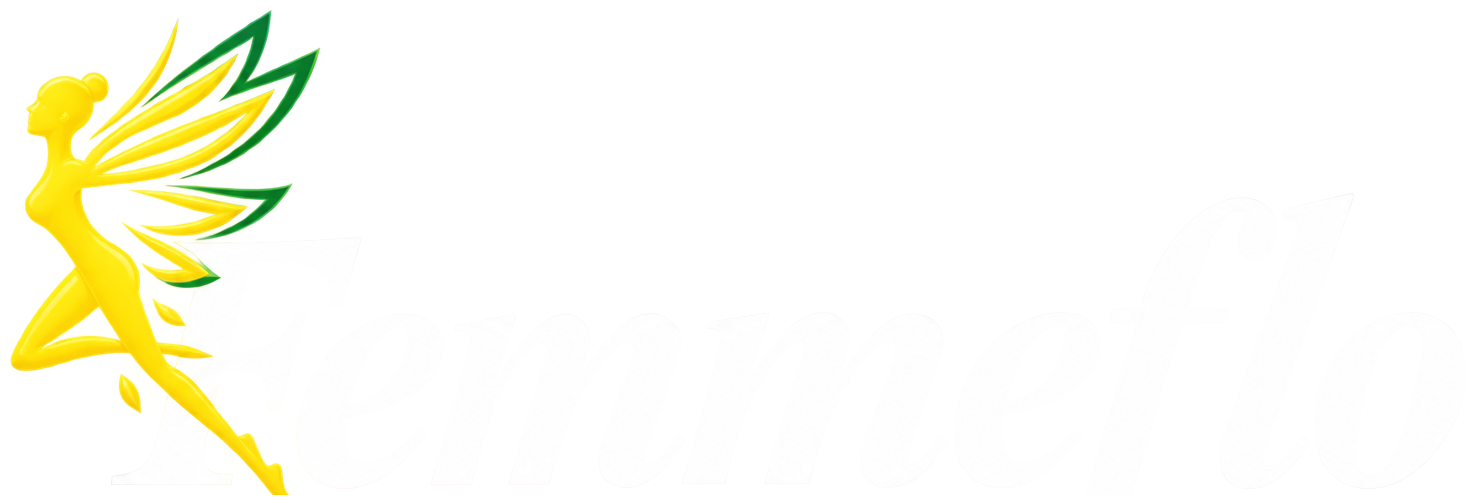
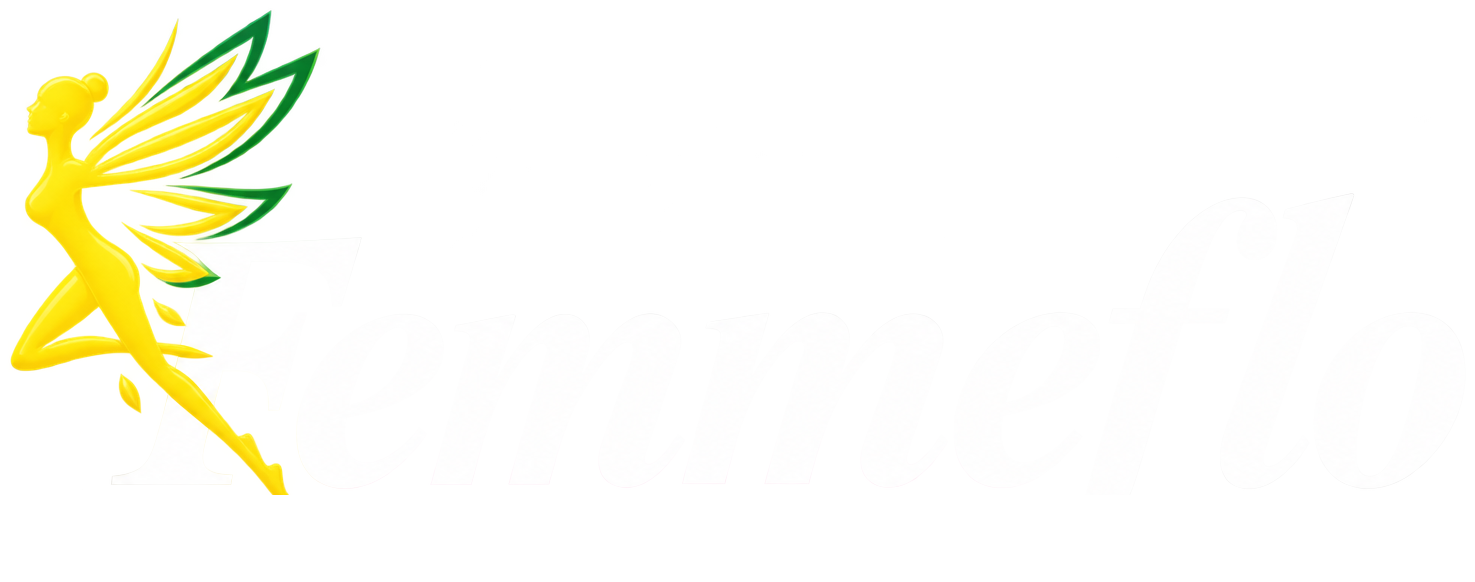
feat: add responsive navbar component and project assets

Changed region(s): [[0.0, 0.0298, 0.2183, 0.9821]]

diff --git a/src/components/navbar.tsx b/src/components/navbar.tsx
@@ -54,7 +54,7 @@ export function Navbar() {
               alt="Femmeflo Logo"
               width={600}
               height={200}
-              className="h-10 sm:h-12 lg:h-[60px] xl:h-[70px] w-auto object-contain transition-transform duration-300 group-hover:scale-[1.03]"
+              className="h-11 sm:h-14 lg:h-[70px] xl:h-[80px] w-auto object-contain transition-transform duration-300 group-hover:scale-[1.03]"
               priority
             />
           </Link>
